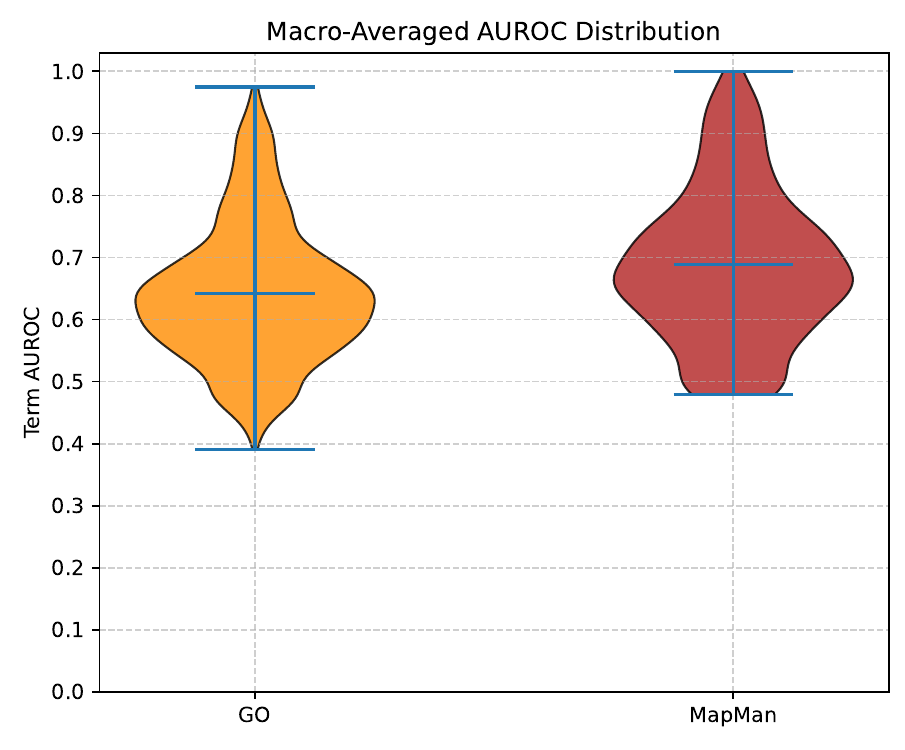
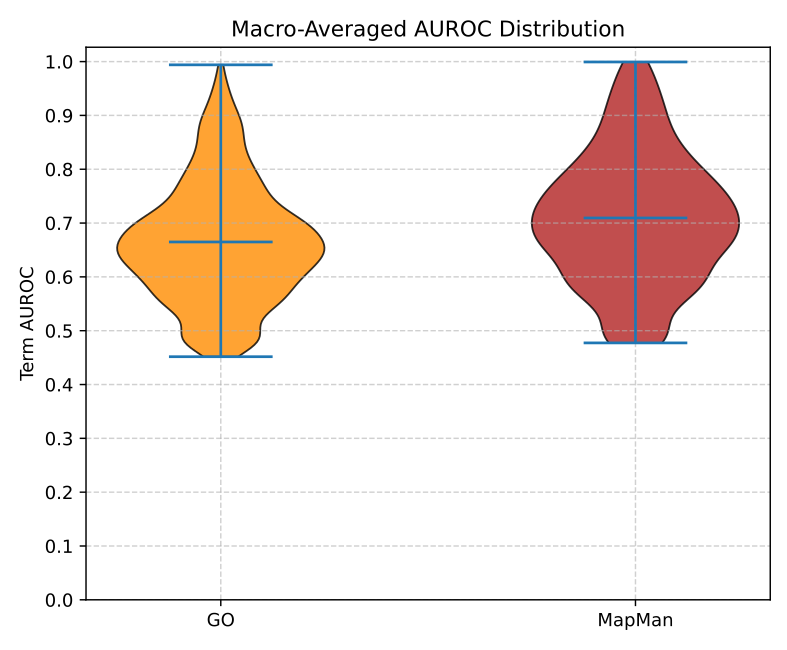
Update README network performance metrics, graphs, DB statistics, and cluster removal note

diff --git a/README.md b/README.md
@@ -14,7 +14,7 @@ Rice2Net provides a canvas paired with a control panel. By default, the applicat
 
 The **Target Explorer** allows users to isolate subnetworks based on a list of genes.
 
-* **Target Input:** Users input locus identifiers (RAP or MSU format) manually or via a `.txt` file upload.
+* **Target Input:** Users input gene queries (RAP-DB IDs, MSU IDs, gene identifiers, or symbols) manually or via a `.txt` file upload.
 * **Search Depth:** Determines how many topological steps (edges) away from the target genes the network traverses to pull in neighboring nodes.
 * **Prune Dead Ends:** A toggle that removes "leaf" nodes (nodes with a degree of 1) from the filtered subnetwork, retaining the interconnected graph.
 * **Connect Neighbors:** This toggle dictates graph traversal logic during subnetwork filtering. When enabled, the filter identifies and draws edges between nodes in the target subset and their retrieved neighbors. When disabled, the filter draws edges radiating from the initial target nodes, resulting in a radial topology. This logic applies to graph manipulation: when enabled during node expansion, the system draws edges between introduced nodes and existing nodes on the canvas. When disabled, introduced nodes connect exclusively to the expanded parent node.
@@ -41,7 +41,7 @@ The **Export** suite allows users to extract visualizations and tabular data.
 
 * **Locus ID Format:** A toggle that defines whether exported data files prioritize RAP-DB or MSU formatting for gene identifiers.
 * **Export Image (.png):** Generates a snapshot of the canvas. A "Show all edges" toggle forces the renderer to paint edges connected to transparent (hidden) nodes.
-* **Export Edges (.tsv):** Downloads visible topological links, including source/target mapping, edge weights, IRP scores, and directionality flags.
+* **Export Edges (.tsv):** Downloads visible topological links, including source/target mapping, edge weights, IRP scores, directionality flags, and interaction signs (`+`/`-`).
 * **Export Layout (.json):** Saves spatial coordinates (`x`, `y`), visibility states, and metadata of the canvas, allowing the user to import and restore the visualization.
 * **Export Genes (.tsv):** Downloads a tabular list of visible genes along with flattened metadata columns (Symbol, Transcription Factor families, mapped pathways).
 
@@ -90,7 +90,14 @@ The expression matrix was subjected to GRN reconstruction using the Seidr toolki
 
 <details><summary><b>Network Performance</b></summary>
 
-The global network was evaluated against functional annotations. The distribution of macro-averaged AUROC metrics yielded a mean of 0.6429 across 1,786 Gene Ontology (GO) terms and a mean of 0.6866 across 780 MapMan bins. Network saturation analysis evaluated the macro-averaged AUROC across dataset subsets of varying BioProject counts. The macro-averaged AUROC reached a performance plateau at 20 BioProjects for GO and MapMan annotations.
+The global network was evaluated against functional annotations across both Gene Ontology (GO) and MapMan hierarchies:
+
+| Annotation Source | Terms Evaluated | Macro AUROC | Macro AUPR |
+| --- | ---: | ---: | ---: |
+| **Gene Ontology (GO)** | 1,788 | 0.6649 | 0.0171 |
+| **MapMan** | 780 | 0.7094 | 0.0043 |
+
+Network saturation analysis evaluated the macro-averaged AUROC across dataset subsets of varying BioProject counts. The macro-averaged AUROC reached a performance plateau at 20 BioProjects for GO and MapMan annotations.
 
 <p align="center">
   <img src="figures/violin_half.png" alt="Distributional variance of macro-averaged AUROC" width="49%">
@@ -107,7 +114,9 @@ Motif references used in TF-Promoter Binding are sourced from **PlantTFDB**, **J
 
 <details><summary><b>Functional Clusters</b></summary>
 
-Community detection within networks was performed using Python **Infomap**. Modules were functionally annotated using **g:GOSt** (**g:Profiler**).
+> **Note:** The **Functionally Enriched Clusters** features have been removed in the current version of Rice2Net and its database, though the underlying frontend architecture is preserved with the intention of reimplementing them in a future release.
+
+Community detection within networks was originally performed using Python **Infomap**, with modules functionally annotated using **g:GOSt** (**g:Profiler**).
 
 </details>
 
@@ -117,30 +126,31 @@ Rice2Net operates as a client-side application supported by a Node.js Express mi
 
 <details><summary><b>Client Modules</b></summary>
 
-* **`globals.js`:** Initializes global states, visual configuration parameters, color palettes, and random number generation functions.
-* **`data.js`:** Executes database initialization routines, builds graph adjacency structures, loads functional clusters, and manages node metadata hydration.
-* **`core.js`:** Processes local file imports (JSON/TSV), applies force simulation algorithms, and executes the core canvas rendering loop.
-* **`filter.js`:** Resolves gene identifiers, calculates subnetwork traversal based on user targets, and executes targeted graph manipulation actions (expand, pop, contract).
-* **`sim.js`:** Contains fallback layout calculation logic, defines physical parameters, and dictates geometric drawing rules for directional edges.
+* **`globals.js`:** Initializes global states, feature flags, visual configuration parameters, color palettes, and random number generation functions.
+* **`api.js`:** Unified web data adapter (`window.RICE2NET_API`) centralizing backend HTTP requests (and Static Demo Mode hooks) for topology, metadata, regulation, and motif binding queries.
+* **`data.js`:** Executes database initialization routines, builds and caches graph adjacency structures, manages IRP edge filtering, and handles node metadata hydration and in-memory reversion.
+* **`core.js`:** Processes local file imports (JSON/TSV) and runs localized force simulation updates during node manipulation.
+* **`filter.js`:** Resolves gene identifiers (RAP, MSU, identifiers, symbols), calculates subnetwork traversal based on user targets, and executes targeted graph manipulation actions (expand, pop, contract).
+* **`sim.js`:** Manages D3 force layout calculation, physical parameters, batched HTML5 Canvas rendering with viewport culling, and geometric drawing rules for directional edges.
 * **`graph.js`:** Implements canvas zoom and pan interactions, calculates view centering, and recalculates visual states during filtering.
-* **`legends.js`:** Generates HTML legend elements and updates data visibility toggles for nodes, clusters, and edges.
+* **`legends.js`:** Generates HTML legend elements and updates data visibility toggles for nodes and edges (with dormant support for clusters).
 * **`ui.js`:** Iterates through visible entities to compute and update statistical counters.
 * **`kegg.js`:** Formats external database queries and renders pathway map iframes.
-* **`controls.js`:** Manages user input parameters, threshold sliders, and visual theme toggles.
-* **`exporters.js`:** Iterates current graph states to compile exportable image and tabular files.
-* **`interactions.js`:** Processes mouse events, manages coordinate mapping, displays tooltips, and triggers context menus.
+* **`controls.js`:** Manages user input parameters, debounced IRP threshold sliders, and visual theme toggles.
+* **`exporters.js`:** Iterates current graph states to compile exportable image and tabular/JSON files, using batched metadata lookups for gene exports.
+* **`interactions.js`:** Processes mouse events, manages coordinate mapping, displays tooltips (including edge signs), renders node/edge detail panels, and triggers context menus.
 
 </details>
 
 <details><summary><b>Server Communication</b></summary>
 
-The application retrieves graph data using asynchronous HTTP requests directed at middleware endpoints.
+The application retrieves graph data using asynchronous HTTP requests routed through `app/api.js` to middleware endpoints.
 
-* **Network Initialization:** Upon application load, the client calls `/api/network/init`. This endpoint queries Neo4j to return node identifiers, base spatial coordinates, and unweighted coexpression edges.
-* **Cluster Loading:** During initialization, the client fetches predefined node groups using the `/api/network/clusters` endpoint.
-* **Metadata Hydration:** When a user selects a node, the application queries `/api/network/node/:id`. The server executes optional pattern matching to return associated Gene Ontology terms, MapMan bins, KEGG pathways, UniProt cross-references, and Transcription Factor classifications.
-* **Regulation Matching:** Activating regulation visibility prompts the application to batch active node pairs and submit them to `/api/network/edges/regulates`. The endpoint identifies directional relationships and returns the results to append to the active graph.
-* **TF-Promoter Binding:** Inspecting a regulatory edge triggers a query to `/api/network/edges/binds` utilizing the source and target node identifiers. The server retrieves motif sequences, strand coordinates, p-values, and q-values.
+* **Network Initialization:** Upon application load, the client calls `/api/network/init`. This endpoint streams node identifiers, base spatial coordinates, node degrees, and signed coexpression edges (`weight`, `irp`, `sign`).
+* **Metadata Hydration:** Selecting a node queries `/api/network/node/:id` (and gene TSV exports batch lookups via `POST /api/network/nodes/batch`). The server executes optional pattern matching to return associated Gene Ontology terms, MapMan bins, KEGG pathways, UniProt cross-references, and Transcription Factor classifications.
+* **Regulation Matching:** Activating regulation visibility prompts the application to batch active node pairs and submit them to `POST /api/network/edges/regulates`. The endpoint identifies directional relationships and returns the results to append to the active graph.
+* **TF-Promoter Binding:** Inspecting a regulatory edge triggers a query to `GET /api/network/edges/binds` (with batch support via `POST /api/network/edges/binds`) utilizing the source and target node identifiers to retrieve motif sequences, strand coordinates, p-values, and q-values.
+* **Cluster Loading *(Currently Inactive)*:** The `/api/network/clusters` endpoint remains available in the backend for future reimplementation of Functionally Enriched Clusters.
 
 </details>
 
@@ -152,10 +162,10 @@ The data is stored in a Neo4j graph database. As illustrated in `db_structure.pn
   <img src="figures/db_structure.png" alt="Node and edge structure of the Neo4j Database." width="100%">
 </p>
 
-**Node Statistics**
+**Node Statistics** *(162,736 total nodes; 21,167 `Gene` nodes connected in the global coexpression network)*
 
 | Node Label | Record Count |
-| --- | --- |
+| --- | ---: |
 | `Uniprot` | 102,601 |
 | `Gene` | 46,036 |
 | `MapMan` | 8,751 |
@@ -163,23 +173,23 @@ The data is stored in a Neo4j graph database. As illustrated in `db_structure.pn
 | `Motif` | 501 |
 | `Pathway` | 160 |
 | `TFFamily` | 99 |
-| `Cluster` | 12 |
 
-**Topology and Edge Statistics**
+**Topology and Edge Statistics** *(23,211,967 total relationships)*
 
 | Source Node | Relationship | Target Node | Edge Count |
-| --- | --- | --- | --- |
+| --- | --- | --- | ---: |
 | `Motif` | `BINDS` | `Gene` | 11,583,032 |
 | `Gene` | `REGULATES` | `Gene` | 10,658,049 |
-| `Gene` | `INTERACTS_WITH` | `Gene` | 885,521 |
+| `Gene` | `INTERACTS_WITH` | `Gene` | 824,461 *(788,173 `+`, 36,288 `-`)* |
 | `Gene` | `HAS_GO_TERM` | `GOTerm` | 57,794 |
 | `Gene` | `HAS_UNIPROT` | `Uniprot` | 49,005 |
 | `Gene` | `HAS_MAPMAN` | `MapMan` | 16,237 |
 | `Gene` | `IN_PATHWAY` | `Pathway` | 11,261 |
-| `Gene` | `BELONGS_TO_CLUSTER` | `Cluster` | 11,259 |
 | `MapMan` | `SUBCATEGORY_OF` | `MapMan` | 8,719 |
 | `Gene` | `BELONGS_TO_FAMILY` | `TFFamily` | 2,425 |
 | `Gene` | `HAS_MOTIF` | `Motif` | 984 |
+
+> **Note:** `Cluster` nodes and `BELONGS_TO_CLUSTER` relationships (Functionally Enriched Clusters) were removed in the current version, with the intention of reimplementing this feature in a future release.
 
 </details>
 
